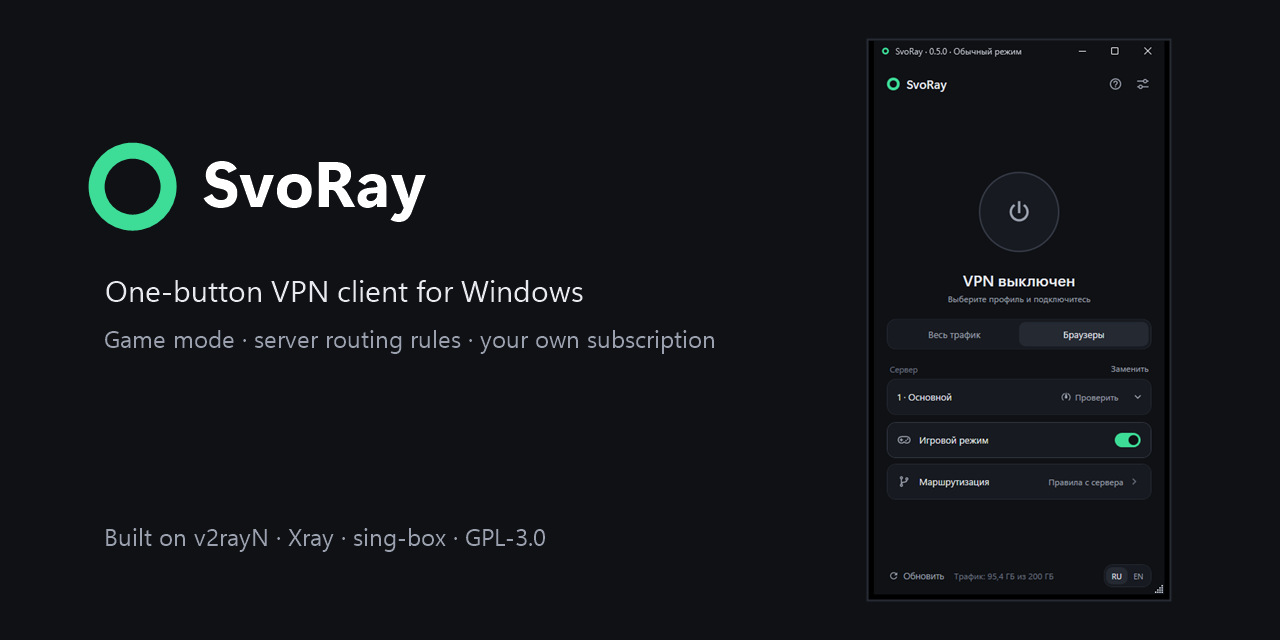
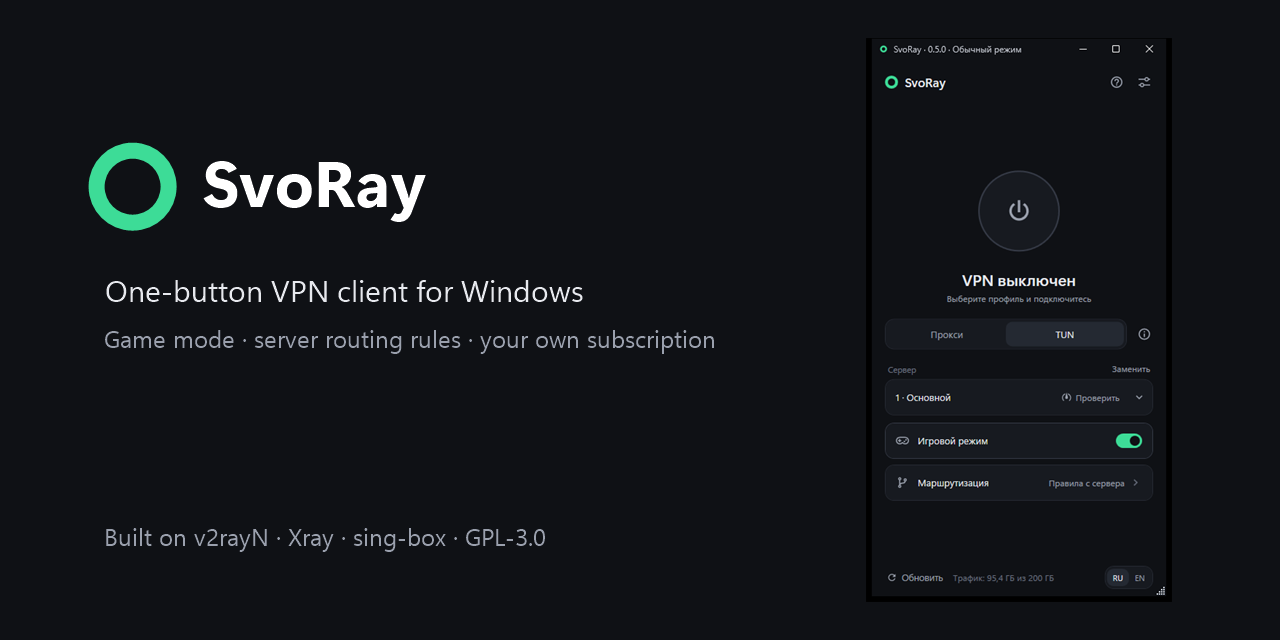
Name the modes Proxy and TUN again and make TUN the default
The mode switch reads Proxy | TUN as in 0.4.0, with a themed hint that
explains what each mode sends through the VPN. Configs from 0.4.x are
switched to TUN once (TunDefaultMigrated); a mode chosen afterwards is kept.

diff --git a/src/v2rayN/Views/MainWindow.xaml b/src/v2rayN/Views/MainWindow.xaml
@@ -472,6 +472,10 @@
                 Background="{x:Static common:SvoRayPalette.Background}"
                 TextElement.FontFamily="{StaticResource SvoRay.Font}"
                 TextElement.Foreground="{x:Static common:SvoRayPalette.Text}">
+                <Grid.Resources>
+                    <!--  Every hint on this screen uses the theme card, not the advanced UI's tooltip  -->
+                    <Style BasedOn="{StaticResource SvoRay.ToolTip}" TargetType="{x:Type ToolTip}" />
+                </Grid.Resources>
                 <Grid Margin="18,12,18,10">
                     <Grid.RowDefinitions>
                         <RowDefinition Height="Auto" />
@@ -568,24 +572,64 @@
                                 Text="{x:Static resx:ResUI.SvoRaySelectProfileAndConnect}"
                                 TextAlignment="Center" />
 
-                            <Border Margin="0,20,0,0" Style="{StaticResource SvoRay.SegmentHost}">
-                                <UniformGrid Rows="1">
-                                    <RadioButton
-                                        x:Name="rdoModeTun"
-                                        AutomationProperties.Name="{x:Static resx:ResUI.SvoRayTunMode}"
-                                        Content="{x:Static resx:ResUI.SvoRayModeAllTraffic}"
-                                        GroupName="SvoRayMode"
-                                        Style="{StaticResource SvoRaySegmentButton}"
-                                        ToolTip="{x:Static resx:ResUI.SvoRayTunModeTip}" />
-                                    <RadioButton
-                                        x:Name="rdoModeProxy"
-                                        AutomationProperties.Name="{x:Static resx:ResUI.SvoRayProxyMode}"
-                                        Content="{x:Static resx:ResUI.SvoRayModeBrowsers}"
-                                        GroupName="SvoRayMode"
-                                        Style="{StaticResource SvoRaySegmentButton}"
-                                        ToolTip="{x:Static resx:ResUI.SvoRaySystemProxyTip}" />
-                                </UniformGrid>
-                            </Border>
+                            <!--  Proxy on the left, TUN on the right, as in 0.4.0; the "i" explains both  -->
+                            <Grid Margin="0,20,0,0">
+                                <Grid.ColumnDefinitions>
+                                    <ColumnDefinition Width="*" />
+                                    <ColumnDefinition Width="Auto" />
+                                </Grid.ColumnDefinitions>
+                                <Border Style="{StaticResource SvoRay.SegmentHost}">
+                                    <UniformGrid Rows="1">
+                                        <RadioButton
+                                            x:Name="rdoModeProxy"
+                                            AutomationProperties.Name="{x:Static resx:ResUI.SvoRayProxyMode}"
+                                            Content="{x:Static resx:ResUI.SvoRayProxy}"
+                                            GroupName="SvoRayMode"
+                                            Style="{StaticResource SvoRaySegmentButton}"
+                                            ToolTip="{x:Static resx:ResUI.SvoRaySystemProxyTip}" />
+                                        <RadioButton
+                                            x:Name="rdoModeTun"
+                                            AutomationProperties.Name="{x:Static resx:ResUI.SvoRayTunMode}"
+                                            Content="TUN"
+                                            GroupName="SvoRayMode"
+                                            Style="{StaticResource SvoRaySegmentButton}"
+                                            ToolTip="{x:Static resx:ResUI.SvoRayTunModeTip}" />
+                                    </UniformGrid>
+                                </Border>
+                                <!--
+                                    A Label rather than a Border so screen readers find it and read the hint;
+                                    the transparent background makes the whole 36 px square show it, not just the glyph.
+                                -->
+                                <Label
+                                    x:Name="iconModeHelp"
+                                    Grid.Column="1"
+                                    Width="36"
+                                    Height="36"
+                                    Margin="6,0,-6,0"
+                                    Padding="0"
+                                    HorizontalContentAlignment="Center"
+                                    VerticalContentAlignment="Center"
+                                    AutomationProperties.HelpText="{x:Static resx:ResUI.SvoRayModeHint}"
+                                    AutomationProperties.Name="{x:Static resx:ResUI.SvoRayModeHelp}"
+                                    Background="Transparent"
+                                    Focusable="True"
+                                    FocusVisualStyle="{x:Null}"
+                                    Style="{x:Null}"
+                                    ToolTipService.InitialShowDelay="150"
+                                    ToolTipService.Placement="Left"
+                                    ToolTipService.ShowDuration="60000">
+                                    <Label.ToolTip>
+                                        <ToolTip>
+                                            <TextBlock Text="{x:Static resx:ResUI.SvoRayModeHint}" TextWrapping="Wrap" />
+                                        </ToolTip>
+                                    </Label.ToolTip>
+                                    <materialDesign:PackIcon
+                                        Width="19"
+                                        Height="19"
+                                        Foreground="{x:Static common:SvoRayPalette.TextSecondary}"
+                                        Kind="InformationOutline" />
+                                </Label>
+                            </Grid>
 
                             <!--  ImportState: shown while no profile exists, or on explicit "add or replace"  -->
                             <StackPanel x:Name="ImportStatePanel" Margin="0,20,0,0">

diff --git a/src/v2rayN/Resources/SvoRayTheme.xaml b/src/v2rayN/Resources/SvoRayTheme.xaml
@@ -232,6 +232,43 @@
         </Setter>
     </Style>
 
+    <!--
+        Tooltip: a flat card in the surface colour. No drop shadow - HasDropShadow would wrap the
+        popup in the same software-rendered shadow the rest of the theme avoids.
+    -->
+    <Style x:Key="SvoRay.ToolTip" TargetType="{x:Type ToolTip}">
+        <Setter Property="OverridesDefaultStyle" Value="True" />
+        <Setter Property="HasDropShadow" Value="False" />
+        <Setter Property="FontFamily" Value="{StaticResource SvoRay.Font}" />
+        <Setter Property="FontSize" Value="12.5" />
+        <Setter Property="Foreground" Value="{x:Static common:SvoRayPalette.Text}" />
+        <Setter Property="Background" Value="{x:Static common:SvoRayPalette.Surface}" />
+        <Setter Property="BorderBrush" Value="{x:Static common:SvoRayPalette.BorderStrong}" />
+        <Setter Property="Padding" Value="12,9" />
+        <Setter Property="MaxWidth" Value="340" />
+        <Setter Property="Template">
+            <Setter.Value>
+                <ControlTemplate TargetType="{x:Type ToolTip}">
+                    <Border
+                        Padding="{TemplateBinding Padding}"
+                        Background="{TemplateBinding Background}"
+                        BorderBrush="{TemplateBinding BorderBrush}"
+                        BorderThickness="1"
+                        CornerRadius="10">
+                        <ContentPresenter>
+                            <ContentPresenter.Resources>
+                                <Style TargetType="{x:Type TextBlock}">
+                                    <Setter Property="TextWrapping" Value="Wrap" />
+                                    <Setter Property="LineHeight" Value="18" />
+                                </Style>
+                            </ContentPresenter.Resources>
+                        </ContentPresenter>
+                    </Border>
+                </ControlTemplate>
+            </Setter.Value>
+        </Setter>
+    </Style>
+
     <!--  Buttons  -->
     <Style x:Key="SvoRay.PrimaryButton" TargetType="{x:Type Button}">
         <Setter Property="Height" Value="46" />

diff --git a/src/ServiceLib/Handler/ConfigHandler.cs b/src/ServiceLib/Handler/ConfigHandler.cs
@@ -203,13 +203,7 @@ public static class ConfigHandler
         }
         config.GlobalHotkeys ??= [];
 
-        config.SvoRayItem ??= new();
-        config.SvoRayItem.RuleDomains ??= [];
-        if (!config.SvoRayItem.HardwareRenderingMigrated)
-        {
-            config.GuiItem.EnableHWA = true;
-            config.SvoRayItem.HardwareRenderingMigrated = true;
-        }
+        MigrateSvoRayItem(config);
 
         if (config.SystemProxyItem.SystemProxyExceptions.IsNullOrEmpty())
         {
@@ -217,6 +211,26 @@ public static class ConfigHandler
         }
 
         return config;
+    }
+
+    /// <summary>
+    /// One-off SvoRay upgrades of a loaded config. Each runs once and leaves a flag behind, so
+    /// what the user changes afterwards is not reset on the next start.
+    /// </summary>
+    public static void MigrateSvoRayItem(Config config)
+    {
+        config.SvoRayItem ??= new();
+        config.SvoRayItem.RuleDomains ??= [];
+        if (!config.SvoRayItem.HardwareRenderingMigrated)
+        {
+            config.GuiItem.EnableHWA = true;
+            config.SvoRayItem.HardwareRenderingMigrated = true;
+        }
+        if (!config.SvoRayItem.TunDefaultMigrated)
+        {
+            config.SvoRayItem.Mode = ESvoRayMode.Tun;
+            config.SvoRayItem.TunDefaultMigrated = true;
+        }
     }
 
     /// <summary>

diff --git a/src/ServiceLib/Resx/ResUI.Designer.cs b/src/ServiceLib/Resx/ResUI.Designer.cs
@@ -5971,17 +5971,6 @@ namespace ServiceLib.Resx {
                 return ResourceManager.GetString("SvoRayServerRulesSuffix", resourceCulture);
             }
         }
-        public static string SvoRayModeAllTraffic {
-            get {
-                return ResourceManager.GetString("SvoRayModeAllTraffic", resourceCulture);
-            }
-        }
-
-        public static string SvoRayModeBrowsers {
-            get {
-                return ResourceManager.GetString("SvoRayModeBrowsers", resourceCulture);
-            }
-        }
 
         public static string SvoRayServer {
             get {
@@ -6020,6 +6009,18 @@ namespace ServiceLib.Resx {
         public static string SvoRayRoutingServerPlus {
             get {
                 return ResourceManager.GetString("SvoRayRoutingServerPlus", resourceCulture);
+            }
+        }
+
+        public static string SvoRayModeHelp {
+            get {
+                return ResourceManager.GetString("SvoRayModeHelp", resourceCulture);
+            }
+        }
+
+        public static string SvoRayModeHint {
+            get {
+                return ResourceManager.GetString("SvoRayModeHint", resourceCulture);
             }
         }
     }

diff --git a/src/ServiceLib.Tests/Handler/SvoRayConfigMigrationTests.cs b/src/ServiceLib.Tests/Handler/SvoRayConfigMigrationTests.cs
@@ -1,0 +1,37 @@
+using AwesomeAssertions;
+using ServiceLib.Handler;
+using Xunit;
+
+namespace ServiceLib.Tests.Handler;
+
+public class SvoRayConfigMigrationTests
+{
+    [Fact]
+    public void MigrateSvoRayItem_ShouldSwitchAnOlderConfigToTunOnce()
+    {
+        // A 0.4.x config: the user was on the system proxy, and the flag did not exist yet.
+        var config = JsonUtils.Deserialize<Config>("""
+            { "GuiItem": {}, "SvoRayItem": { "Mode": 1 } }
+            """)!;
+        config.SvoRayItem.Mode.Should().Be(ESvoRayMode.Proxy);
+
+        ConfigHandler.MigrateSvoRayItem(config);
+
+        config.SvoRayItem.Mode.Should().Be(ESvoRayMode.Tun);
+        config.SvoRayItem.TunDefaultMigrated.Should().BeTrue();
+    }
+
+    [Fact]
+    public void MigrateSvoRayItem_ShouldKeepProxyChosenAfterTheMigration()
+    {
+        var config = new Config
+        {
+            GuiItem = new(),
+            SvoRayItem = new() { Mode = ESvoRayMode.Proxy, TunDefaultMigrated = true },
+        };
+
+        ConfigHandler.MigrateSvoRayItem(config);
+
+        config.SvoRayItem.Mode.Should().Be(ESvoRayMode.Proxy);
+    }
+}

diff --git a/src/ServiceLib/Models/Configs/ConfigItems.cs b/src/ServiceLib/Models/Configs/ConfigItems.cs
@@ -341,4 +341,10 @@ public class SvoRayItem
     /// settings are left alone.
     /// </summary>
     public bool HardwareRenderingMigrated { get; set; }
+
+    /// <summary>
+    /// Set once a config written by an earlier build has been switched to TUN, the 0.5.0 default.
+    /// After that the user's choice of mode is kept as is.
+    /// </summary>
+    public bool TunDefaultMigrated { get; set; }
 }

diff --git a/README.md b/README.md
@@ -92,10 +92,10 @@ A Start-menu shortcut is created. No desktop shortcut.
    language, then restart SvoRay as the notice says.
 3. Paste your subscription link or a single profile into the field and press **Import / Импортировать**.
 4. The form is replaced by a profile selector, and the first usable profile is selected automatically.
-5. Pick a mode: **All traffic / Весь трафик** (TUN) covers the whole system, **Browsers / Браузеры** covers applications that honour the Windows system proxy.
+5. Pick a mode: **Proxy / Прокси** covers applications that honour the Windows system proxy, mostly browsers; **TUN** covers all of the computer's traffic and is the default. The **i** icon next to the switch explains the difference.
 6. Press the power button. Press it again to disconnect.
 7. **Check / Проверить** in the server row measures latency for the selected profile.
-8. **Game mode / Игровой режим** sends games past the VPN while everything else stays on it. It matters in *All traffic* mode; in *Browsers* mode games bypass the VPN anyway.
+8. **Game mode / Игровой режим** sends games past the VPN while everything else stays on it. It matters in *TUN* mode; in *Proxy* mode games bypass the VPN anyway.
 9. **Routing / Маршрутизация** edits the domain list. Type `example.com`; subdomains are matched too, a whole list can be pasted at once, and the Russia preset fills in sites that commonly refuse a foreign address. DNS for a listed domain takes the same path as its traffic. **Rules from the server** applies the subscription's own routing profile; your list takes priority over it.
 10. **Support / Поддержка** (the question-mark icon) opens the provider link supplied by the subscription, or GitHub Issues when none is available.
 11. The settings icon opens the full v2rayN interface.
@@ -137,7 +137,7 @@ notes: [docs/RELEASE_NOTES_0.5.0_RU.md](docs/RELEASE_NOTES_0.5.0_RU.md) (Russian
 
 A pre-publication security audit has been completed — see [docs/SECURITY_AUDIT.md](docs/SECURITY_AUDIT.md) for scope, findings, fixes and remaining risks. Notable fixes it produced: the downloaded subscription payload no longer reaches the log files, and profile links are kept out of the on-screen notice stream.
 
-Verified for 0.5.0: Release build and installer, 158/158 unit tests (server routing profile parsing and filtering, geo categories, Steam library discovery and exact path casing, rule order, generated Xray and sing-box configs, traffic header, RU/EN resources). The new screens were run against a production subscription: import, update, the traffic line, the server-rules marker, the game-mode switch and the routing window.
+Verified for 0.5.0: Release build and installer, 160/160 unit tests (server routing profile parsing and filtering, geo categories, Steam library discovery and exact path casing, rule order, generated Xray and sing-box configs, traffic header, RU/EN resources, the one-off switch of upgraded installations to TUN). The new screens were run against a production subscription: import, update, the traffic line, the server-rules marker, the game-mode switch and the routing window.
 
 Not verified in a live 0.5.0 session: connecting with the new build and the connecting/on/error colours, game mode inside an actual game, smoothness on a monitor above 60 Hz, and upgrading over 0.4.0 with this installer.
 

diff --git a/CHANGELOG.md b/CHANGELOG.md
@@ -26,9 +26,11 @@ Full notes: [docs/RELEASE_NOTES_0.5.0_RU.md](docs/RELEASE_NOTES_0.5.0_RU.md) (Ru
 
 - **A new look.** Graphite surfaces with one mint accent, a single connect button with distinct
   connecting and error states, a server row with the delay inside it, settings-style rows for
-  game mode and routing, and clearer mode names ("All traffic" / "Browsers"). New application
-  and tray icons: a ring, with tray states that differ by shape — off, connecting, on, game mode
-  and error. The routing window and advanced mode's accent follow the same palette.
+  game mode and routing, and a hint next to the Proxy / TUN switch that explains what each mode
+  sends through the VPN. New application and tray icons: a ring, with tray states that differ by
+  shape — off, connecting, on, game mode and error. The routing window and advanced mode's accent follow the same palette.
+- **TUN is the default mode.** New installations start in TUN, and installations upgraded from
+  0.4.x are switched to it once; a mode chosen after that is kept.
 - **Smooth rendering.** SvoRay draws on the GPU by default (v2rayN's software-only default made
   the window stutter), existing installations are switched once, animations run at the
   monitor's refresh rate instead of WPF's 60 fps cap, and the large blurs and shadows are gone.
